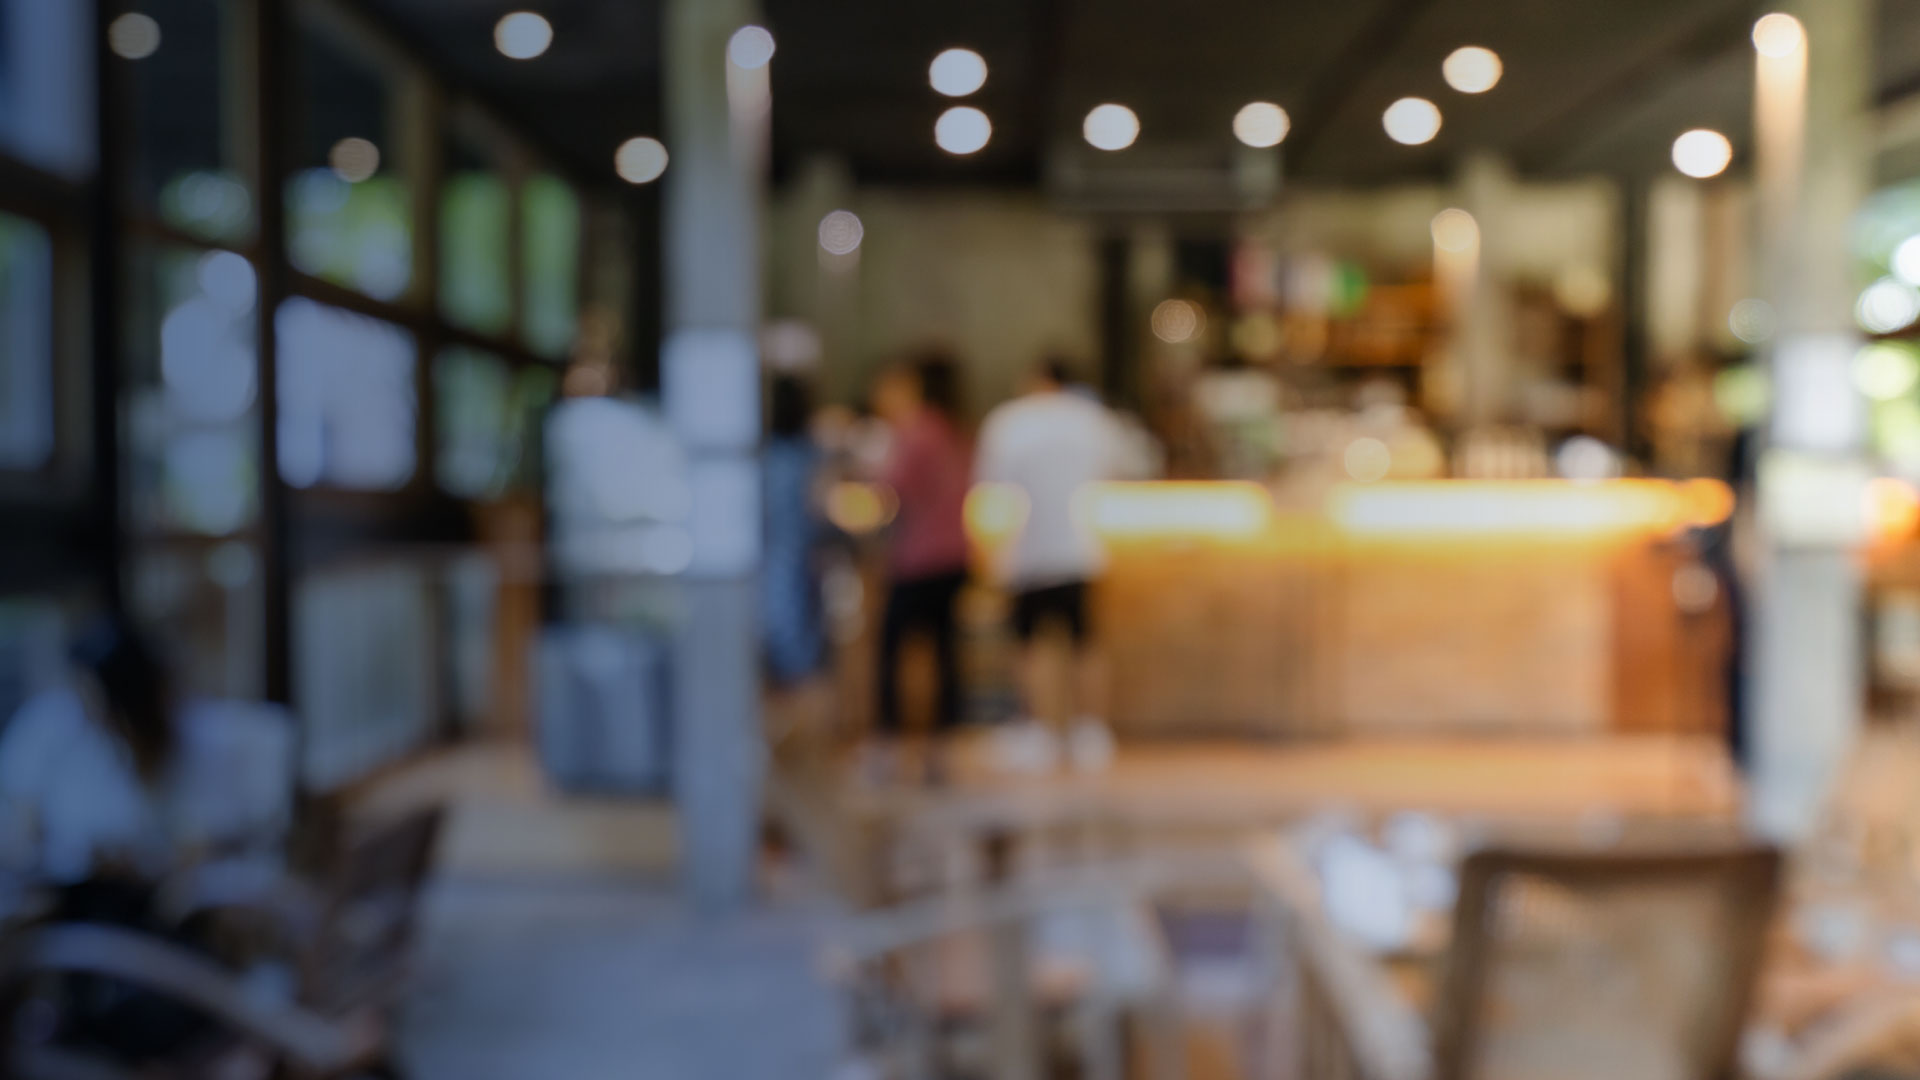
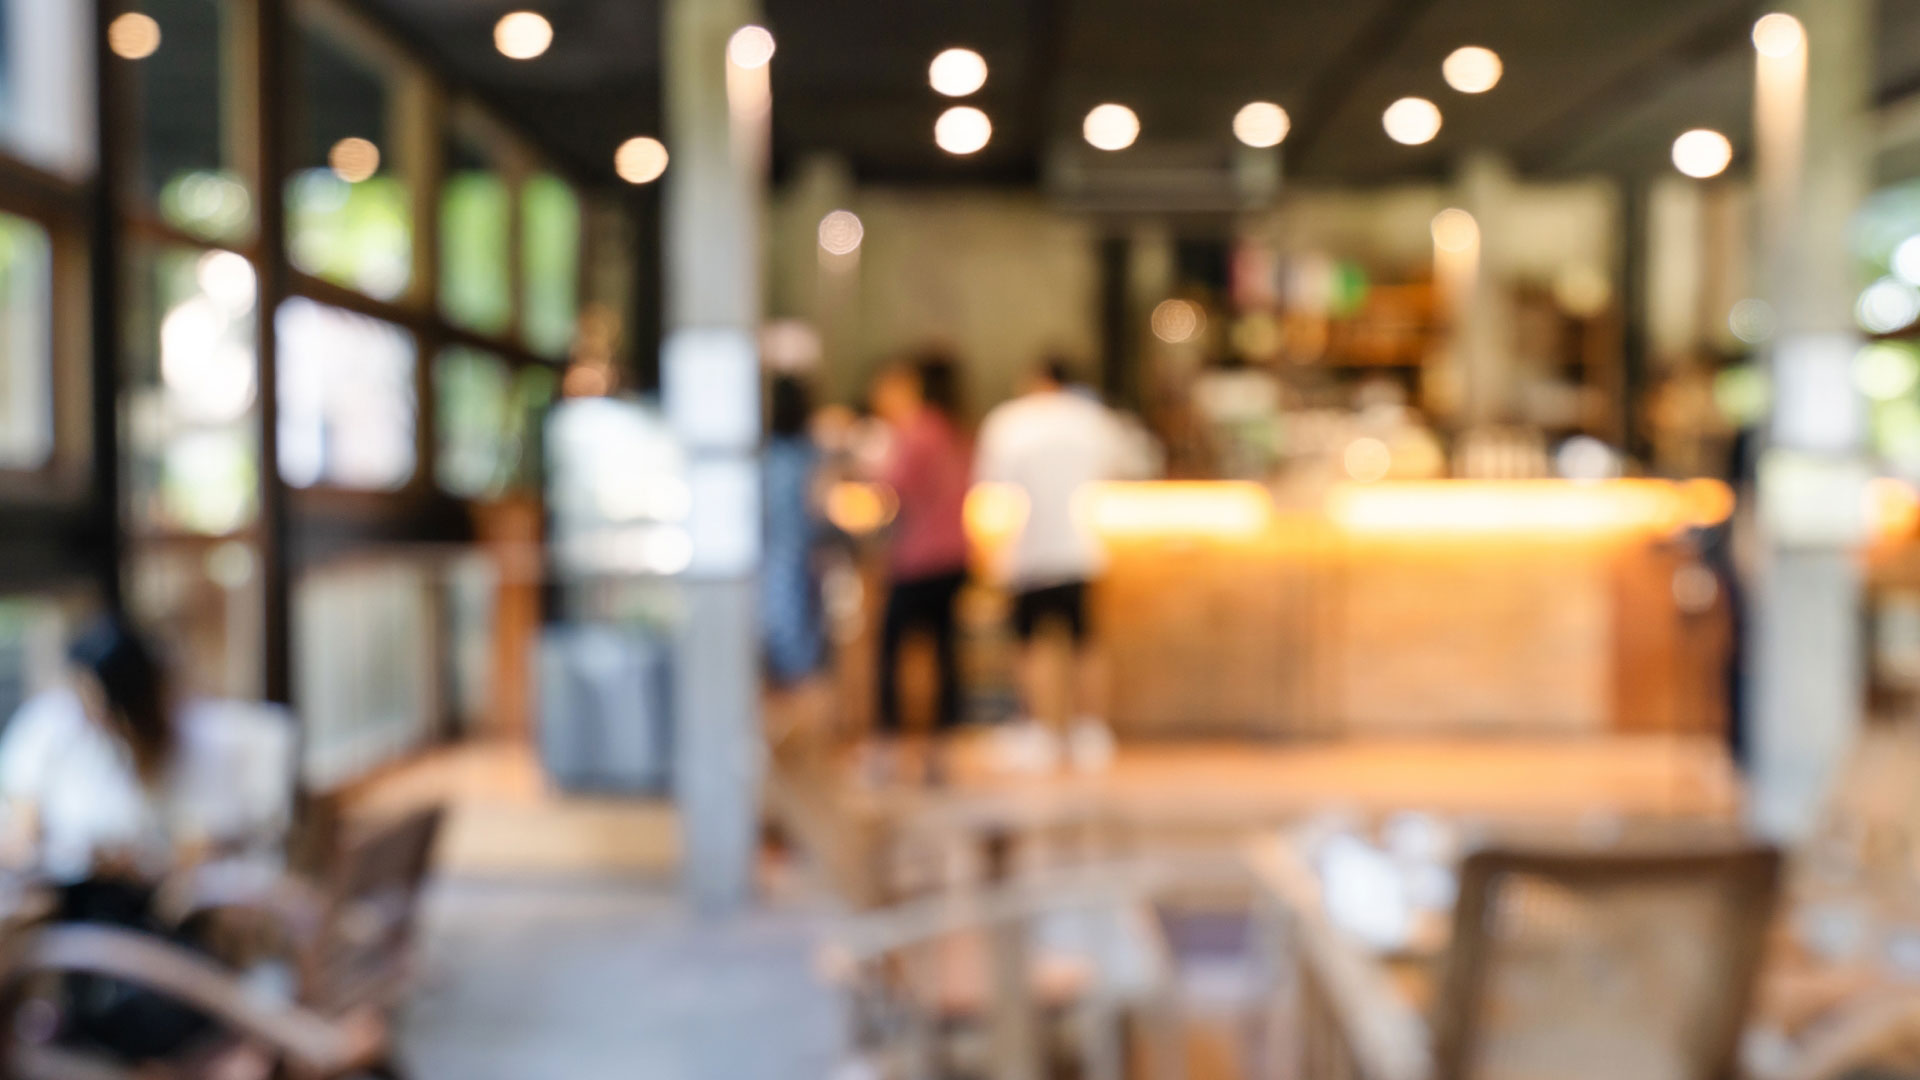
news追加

diff --git a/assets/css/style.css b/assets/css/style.css
@@ -12,15 +12,10 @@
   --primary-800: #0070a4;
   --primary-900: #006492;
 
-  --secondary-100: #fffee9;
-  --secondary-200: #fffdbd;
-  --secondary-300: #fffb95;
-  --secondary-400: #fff970;
+
   --secondary-500: #FFF000;
-  --secondary-600: #fff72e;
-  --secondary-700: #fff610;
-  --secondary-800: #f4eb00;
-  --secondary-900: #dcd400;
+  --secondary-700: #FFD600;
+  --secondary-900: #FFB800;
 
   --error-050: #f7a3b1;
   --error-100: #f48194;
@@ -473,12 +468,13 @@ footer{
 
 section.contact{
     background-color: rgba(0,38,95,0.7);
-  background-image: url('~/assets/img/contact_section_bg.jpg');
+  background-image: url('~/assets/img/eye_bg_cafe.jpg');
   background-blend-mode: multiply;
   background-repeat: no-repeat;
   background-position: center;
   background-size: cover;
   z-index: 1;
+  color: #fff;
 }
 
 section.contact::before{
@@ -489,6 +485,7 @@ position: absolute;
 top:0;
 left: 0;
   box-shadow:0px -8px 15px -1px rgba(0, 35, 51, 0.5) inset;
+  background-blend-mode: multiply;
   z-index: 2;
 }
 
@@ -513,6 +510,8 @@ left: 0;
   display: flex;
   align-items: center;
   justify-content: center;
+    z-index: 3;
+
 }
 
 .contact_section_title{
@@ -794,6 +793,16 @@ section.light::after{
   top: 6px;
   background-color: var(--primary-900);
   content: " ";
+}
+
+section.thanks{
+  background-blend-mode: multiply;
+  background-image: url('~/assets/img/eye_bg_cafe.jpg');
+  background-color: rgba(0,0,0,0.5);
+  background-repeat: no-repeat;
+  background-position: center;
+  background-size: cover;
+  color: #fff;
 }
 
 
@@ -1207,6 +1216,8 @@ p.news_date{
   opacity: 0;
 }
 
+
+
 @media screen and (max-width:960px){
   .design_box {
     width: 100%;
@@ -1467,7 +1478,20 @@ p.news_date{
   left: 50%;
   top: 50%;
   transform: translate(-50%,-50%);
+  z-index: 0;
 }
+.eyecacth_bg::before{
+    width: 100%;
+  height: 100%;
+  position: absolute;
+  left:0;
+  top: 0;
+  content: " ";
+  background: linear-gradient(83.91deg, rgba(0, 39, 95, 0.7) 3.72%, rgba(0, 160, 233, 0) 181.53%);
+  z-index: 1;
+  background-blend-mode: multiply;
+  mix-blend-mode: multiply;
+  }
 
 
 
@@ -2096,4 +2120,35 @@ h1.eyecacth_subcopy{
   width: 100%;
   margin: 0;
 }
+}
+
+
+/* thanks */
+
+
+section.thanks{
+ background-color: rgba(0,38,95,0.7);
+  background-image: url('~/assets/img/eye_bg_cafe.jpg');
+  background-blend-mode: multiply;
+  background-repeat: no-repeat;
+  background-position: center;
+  background-size: cover;
+  color: #fff;
+}
+
+
+
+.thanks_logo{
+margin:  0 0 4vw;
+display: inline-flex;
+}
+
+.thanks_logo .footer_logo_copy{
+  margin: 0 10px 0 0;
+}
+
+.thanks_under_btn{
+  display: block;
+  margin: 4vw 0 4vw 0;
+
 }

diff --git a/pages/contact/thanks.vue b/pages/contact/thanks.vue
@@ -1,0 +1,37 @@
+<template>
+  <div>
+    <section class="thanks">
+      <div class="contents">
+        <div class="footer_logo thanks_logo">
+          <p class="footer_logo_copy">遠隔接客サービス</p>
+          <img src="~/assets/img/rura_logo_white.svg" />
+        </div>
+        <div class="headline">
+          <h2>
+            <span class="main">お問い合わせいただきありがとうございます。</span
+            ><span class="sub_title"></span>
+          </h2>
+        </div>
+        <p>
+          この度は弊社へのお問い合わせをいただき、誠にありがとうございます。<br />
+          お問い合わせ内容を確認の上、担当者よりご連絡させていただきます。<br />
+          <br />
+          資料は下記ボタンよりダウンロードいただけます。
+        </p>
+        <div class="thanks_under_btn">
+          <nuxt-link to="/download_url" class="button yellow"
+            ><img
+              src="~/assets/icon/file-text.svg"
+            />資料ダウンロード</nuxt-link
+          >
+        </div>
+      </div>
+    </section>
+  </div>
+</template>
+
+<script>
+export default {
+  layout: "lower",
+};
+</script>

diff --git a/pages/news/index.vue b/pages/news/index.vue
@@ -1,6 +1,49 @@
 <template>
-  <div></div>
+  <div>
+    <section>
+      <div class="contents news_box">
+        <div class="news_box_left">
+          <h2>
+            <span class="main">お知らせ</span>
+          </h2>
+        </div>
+        <div class="news_box_right">
+          <ul class="news">
+            <li v-for="item in newsItems" :key="item.id">
+              <nuxt-link :to="`/news/${item.id}`">
+                <p class="news_date small">
+                  {{ new Date(item.publishedAt).toLocaleDateString() }}
+                </p>
+                <h3 class="news_title">{{ item.title }}</h3>
+              </nuxt-link>
+            </li>
+          </ul>
+        </div>
+      </div>
+    </section>
+    <ContactSection />
+  </div>
 </template>
 
 <script>
+const { createClient } = microcms;
+
+import ContactSection from "@/components/ContactSection.vue";
+export default {
+  layout: "lower",
+
+  components: {
+    ContactSection,
+  },
+
+  async asyncData({ $microcms }) {
+    const newsData = await $microcms.get({
+      endpoint: "news",
+      queries: { limit: 100 },
+    });
+    return {
+      newsItems: newsData.contents,
+    };
+  },
+};
 </script>

diff --git a/pages/news/_id.vue b/pages/news/_id.vue
@@ -1,6 +1,42 @@
 <template>
-  <div></div>
+  <div>
+    <section>
+      <div class="contents news_box">
+        <div class="news_box_left">
+          <h2>
+            <span class="main">お知らせ</span>
+          </h2>
+        </div>
+        <div class="news_box_right">
+          <h1 class="title">{{ title }}</h1>
+          <p class="publishedAt">{{ publishedAt }}</p>
+          <div class="post">{{ body }}</div>
+        </div>
+      </div>
+    </section>
+    <ContactSection />
+  </div>
 </template>
 
 <script>
+import axios from "axios";
+
+import ContactSection from "@/components/ContactSection.vue";
+export default {
+  layout: "lower",
+
+  components: {
+    ContactSection,
+  },
+
+  async asyncData({ params }) {
+    const { data } = await axios.get(
+      `https://rura.microcms.io/api/v1/news/${params.id}`,
+      {
+        headers: { "X-API-KEY": process.env.API_KEY },
+      }
+    );
+    return data;
+  },
+};
 </script>

diff --git a/nuxt.config.js b/nuxt.config.js
@@ -98,4 +98,20 @@ export default {
     // mode: process.env.NODE_ENV === "production" ? "server" : "all",
   },
 
+  generate: {
+    async routes() {
+      const pages = await axios
+        .get('https://rura.microcms.io/api/v1/news/', {
+          headers: { 'X-API-KEY': API_KEY }
+        })
+        .then((res) =>
+          res.data.contents.map((content) => ({
+            route: `/news/${content.id}`,
+            payload: content
+          }))
+        )
+      return pages
+    }
+  },
+
 }

diff --git a/pages/contact/index.vue b/pages/contact/index.vue
@@ -1,0 +1,20 @@
+<template>
+  <div>
+    <section>
+      <div class="contents">
+        <div class="headline">
+          <h2>
+            <span class="main">お問い合わせ</span
+            ><span class="sub_title"></span>
+          </h2>
+        </div>
+      </div>
+    </section>
+  </div>
+</template>
+
+<script>
+export default {
+  layout: "lower",
+};
+</script>

diff --git a/layouts/lower.vue b/layouts/lower.vue
@@ -1,8 +1,7 @@
 <template>
-  <div>
+  <div class="lower">
     <Header />
     <main>
-      <div>こんにちわ</div>
       <nuxt />
     </main>
     <Footer />
@@ -18,3 +17,11 @@ export default {
   },
 };
 </script>
+<style>
+.lower header {
+  position: relative;
+}
+.lower header::before {
+  background-color: var(--primary-500);
+}
+</style>
